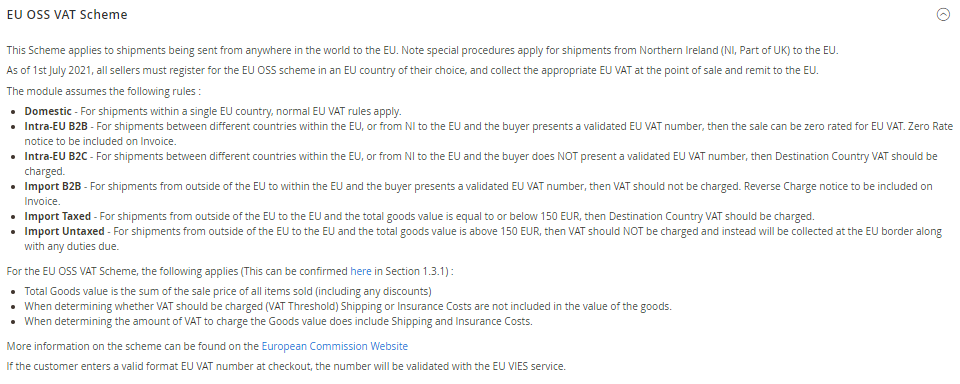
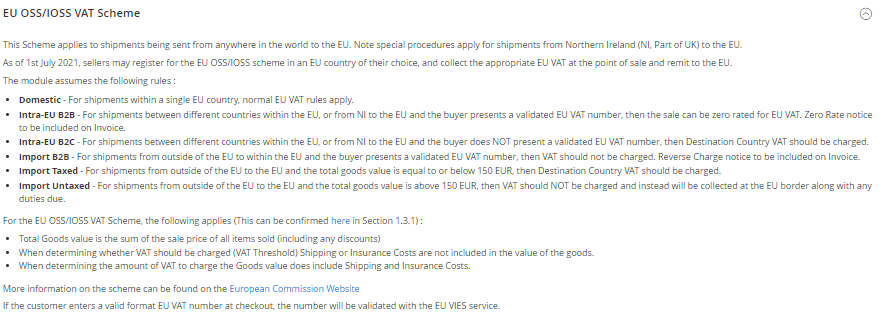
Updated EU Scheme to use different registration number for VIES than scheme number.

diff --git a/Model/TaxSchemes/EuVat.php b/Model/TaxSchemes/EuVat.php
@@ -170,7 +170,7 @@ class EuVat extends AbstractTaxScheme
             ScopeInterface::SCOPE_STORE
         );
         $requesterVatNumber = $this->scopeConfig->getValue(
-            "autocustomergroup/" . self::CODE . "/registrationnumber",
+            "autocustomergroup/" . self::CODE . "/viesregistrationnumber",
             ScopeInterface::SCOPE_STORE
         );
         $newVat = str_replace(

diff --git a/README.md b/README.md
@@ -65,13 +65,14 @@ it, the customer is presented with a prompt above the input field, notifying wha
 <li><b>Customer Group - Import Untaxed</b> - Merchant Country is not within the UK/Isle of Man, Item is being shipped to the UK/Isle of Man, Order Value is above the Import VAT Threshold.</li>
 </ul>
 
-<h2>EU VAT Scheme</h2>
+<h2>EU OSS/IOSS Scheme</h2>
 <img src="images/euvat.png">
 <ul>
 <li><b>Enabled</b> - Enable/Disable this Scheme.</li>
 <li><b>Tax Identifier Field</b> - Displayed to the customer during checkout when this scheme is being used.</li>
-<li><b>VAT Registration Country</b> - The country in which the Merchant is VAT Registered. This will be provided to VIES when all validation checks are made.</li>
-<li><b>VAT Registration Number</b> - The EU VAT Registration Number for the Merchant. This will be provided to VIES when all validation checks are made.</li>
+<li><b>VIES Registration Country</b> - The country in which the Merchant is VAT Registered. This will be provided to VIES when all validation checks are made.</li>
+<li><b>VIES Registration Number</b> - The EU VAT Registration Number for the Merchant. This will be provided to VIES when all validation checks are made.</li>
+<li><b>VAT Registration Number</b> - The Scheme Registration Number for the Merchant.</li>
 <li><b>Environment</b> - Whether to use the Sandbox or Production servers for the VIES VAT Validation Service.</li>
 <li><b>Import VAT Threshold</b> - If the order value is above the VAT Threshold, no VAT should be charged.</li>
 <li><b>Use Magento Exchange Rate</b> - To convert from EUR Threshold to Store Currency Threshold, should we use the Magento Exchange Rate, or our own.</li>
